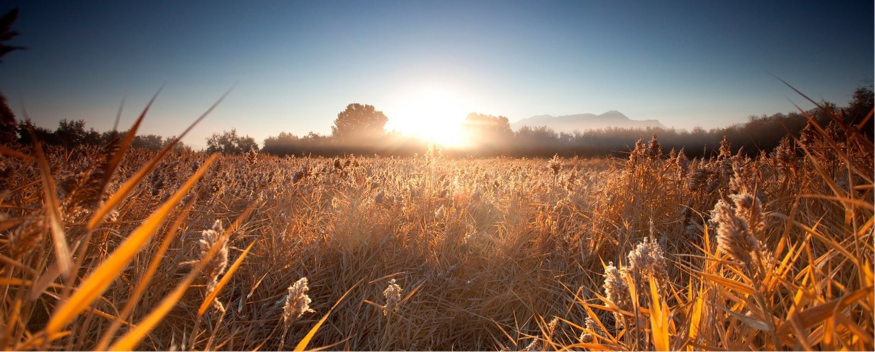
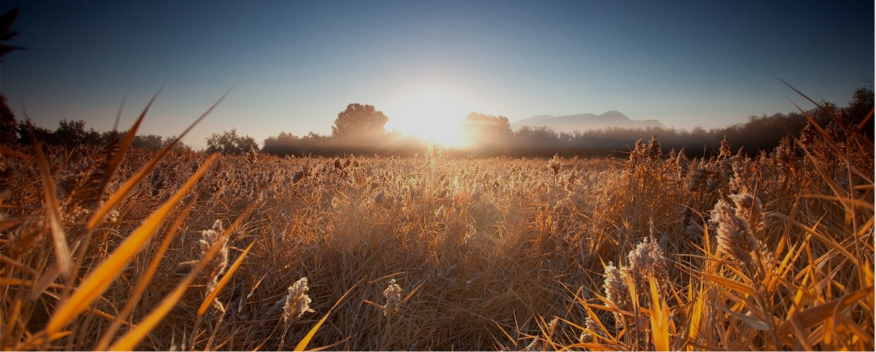
add hero background overlay

diff --git a/index.html b/index.html
@@ -18,7 +18,7 @@
     <h1>SocialWizard</h1>
     <div class="grid">
 	    <div id="upper" class="row cells12">
-        <div id="hero" class="cell colspan10" style="background-image:url('img/background_morning.jpg');">
+        <div id="hero">
           <div id="herotime"></div>
         </div>
         <div class="cell">

diff --git a/main.css b/main.css
@@ -118,7 +118,8 @@ html {
   display: flex;
   align-items: center;
   justify-content: center;
-  background-size:cover;
+  background-size: cover;
+  background-image: url('img/background_morning.png');
 }
 
 #herotime{
